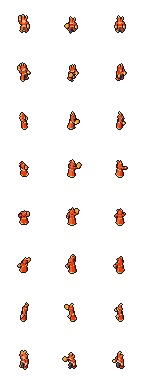
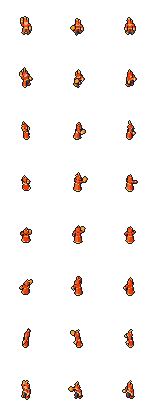
Gemini 5차 재검수 기록과 후속 수정 — 베스퍼 독빛 뚜껑, 이그니스 SE 삼지창 깨기
4차 «상» 반영(#87~#91) 뒤 같은 대화에서 재검수를 받았다.
아이아스·세라피나·실비아 통과, 베스퍼·이그니스 부분 통과(거의 통과).
남은 «중» 두 건을 고쳤다. 베스퍼 독빛 «파란 풍선»은 4차 반영 때 세 축을 1.4배로 키운 것이 원인이라
납작한 뚜껑으로 바꾸고 발사 때 옆으로만 1.15배 넓힌다.
이그니스 가운데 불꽃 끝은 1.23이다. 다른 높이는 걷기 lint H3에서 가는 끝이 2px 깜빡였다.
«하» 두 건(실비아 정수리 점 = 화살통 깃, 이그니스 N·NE 준비 화염구 가림)은 두었다.

Claude-Session: https://claude.ai/code/session_01XsJzvSywTfhUgL72Hqiuhg

diff --git a/tools/art/vesper.py b/tools/art/vesper.py
@@ -36,7 +36,7 @@ WALK = [dict(w, **CENSER, **L_ARM) for w in H.WALK]
 # 공격은 원거리(S121 사거리 3.5): 향로를 뒤로 낮게 젖혔다가(준비) 팔을 곧게 들어 머리 위로 휘돌리며 독빛을 키우고(발사, 가운데가 타격 프레임)
 # 앞으로 내린다(마무리). 과녁 쪽 앞 위로 던지면(sword 20) 남·남동·남서에서 향로가 모자에 겹쳐 안 보였다. 바깥으로 20° 눕혀 머리와 띄운다
 ATTACK = [dict(H.POSE, **L_ARM, sh_r=-40, el_r=20, ab_r=0.5, sword=215, lean=-5),
-          dict(H.POSE, **L_ARM, sh_r=165, el_r=5, ab_r=0.5, sword=0, sword_side=20, lean=8, glow=1.4),
+          dict(H.POSE, **L_ARM, sh_r=165, el_r=5, ab_r=0.5, sword=0, sword_side=20, lean=8, glow=1.15),
           dict(H.POSE, **L_ARM, sh_r=80, el_r=20, ab_r=0.45, sword=110, lean=4)]
 FALL = [dict(H.FALL[0], sword=175), dict(H.FALL[1], sword=175)] + [dict(f, censer=0) for f in H.FALL[2:]]
 ANIMS = {"idle": [IDLE], "walk": WALK, "attack": ATTACK, "fall": FALL}
@@ -86,8 +86,9 @@ def vesper(pose, bob_unit):
     P += [] if not pose.get("censer", 1) else [
           (R.capsule(hd, hd + bd * 0.18, 0.03), m("brass"), "censer"),  # 사슬
           (R.ellipsoid(c, (0.085, 0.085, 0.095)), m("brass"), "censer"),  # 향로. 컴퍼스를 빼고 반지름을 0.5px 키웠다(Gemini 4차 2026-10-19)
-          # 독빛: 향로 윗면. 가운데 띠로 두면 45°에서 놋쇠에 가려 1px도 안 나왔다
-          (R.ellipsoid(c + up * 0.035, (0.075 * glow, 0.075 * glow, 0.065 * glow)), m("glow"), "censer")]
+          # 독빛: 향로 윗면에 얹은 납작한 뚜껑. 가운데 띠로 두면 45°에서 놋쇠에 가려 1px도 안 나왔다. 공격 발사에서는 옆으로만 넓어져
+          # 놋쇠 몸통 위 고리가 된다. 세 축을 다 키우면 놋쇠를 덮는 청록 공(파란 풍선)이 됐다(Gemini 5차 2026-10-19)
+          (R.ellipsoid(c + up * 0.07, (0.075 * glow, 0.075 * glow, 0.035)), m("glow"), "censer")]
     return P
 
 

diff --git a/tools/art/ignis.py b/tools/art/ignis.py
@@ -24,7 +24,7 @@ BASE = {"skin": S.BASE["skin"],
 MATS = list(BASE)
 PARTS = ["leg", "torso", "head", "arm", "fireball", "frost"]
 SIZES = (24,)
-TAG = f"m5 ppu{H.PPU24} ignis2"  # 형체 크기를 바꾸면 이 꼬리표도 바꾼다(fit.json)
+TAG = f"m5 ppu{H.PPU24} ignis3"  # 형체 크기를 바꾸면 이 꼬리표도 바꾼다(fit.json)
 
 R_ARM = dict(sh_r=100, el_r=60, ab_r=1.3)  # 화염구를 머리 옆으로 든다. 머리 위로 들면(sh_r 150, ab_r 0.6) 노란 화염구가 불꽃 머리와 붙어 한 덩어리였다
 L_ARM = dict(sh_l=20, el_l=30, ab_l=0.5)  # 서리를 흘리는 내린 손
@@ -41,8 +41,10 @@ FALL = [dict(H.FALL[0], **L_ARM, ball=0)] + [dict(f, ball=0, frost=0) for f in H
 ANIMS = {"idle": [IDLE], "walk": WALK, "attack": ATTACK, "fall": FALL}
 # 불꽃 머리: (뿌리, 꺾임, 끝) 윗몸 좌표. 높이가 다른 세 갈래가 위로 솟다가 뒤로 휜다. 대칭 다섯 갈래는 정면·뒷면에서
 # 노란 왕관·성게처럼 보였다(Gemini 4차 2026-10-19). 노랑(flare)은 끝에만 둔다
-LOCKS = [((0.0, 0.02, 0.9), (0.03, -0.04, 1.04), (-0.01, -0.1, 1.17)),
-         ((-0.07, 0.02, 0.88), (-0.13, -0.03, 0.97), (-0.15, -0.11, 1.03)),
+# 가운데는 0.06(약 1px) 더 높이고 왼쪽 갈래는 가운데로 붙였다. 높이·간격이 고르면 SE에서 빨간 삼지창으로 보였다(Gemini 5차 2026-10-19).
+# 가운데 끝 높이는 1.23이다. 1.21·1.22·1.24·1.25는 걷기 1px 오르내림에서 가는 끝이 2px 깜빡여 lint H3(W 또는 SW)를 넘었다
+LOCKS = [((0.0, 0.02, 0.9), (0.03, -0.04, 1.07), (-0.01, -0.1, 1.23)),
+         ((-0.045, 0.02, 0.88), (-0.08, -0.03, 0.97), (-0.1, -0.11, 1.03)),
          ((0.06, -0.02, 0.89), (0.11, -0.07, 1.0), (0.09, -0.15, 1.08))]
 
 

diff --git a/art/trial/preview/gemini5/feedback_gemini.md b/art/trial/preview/gemini5/feedback_gemini.md
@@ -1,0 +1,66 @@
+# Gemini 5차(재검수) 답 (2026-10-19)
+
+- 대화: https://gemini.google.com/app/32d805d36140c324 (4차와 같은 대화, 4 Argon, Claude가 Chrome으로 보냄)
+- 보낸 것: 이 폴더의 PNG 11장(첫 메시지 10장 + 둘째 메시지 `5b`)과 [prompt.md](prompt.md)의 프롬프트. 입력란 내용은 원문과 SHA-256이 같았다.
+- 아래는 답 화면을 Markdown으로 옮긴 것이다. 화면 변환본(4,527자)과 SHA-256이 같았다. 그 뒤 답 안의 첨부 인용 표시(«PNG+ 4» 같은 글자)만 지웠다.
+- Claude 대조는 [영웅 스프라이트 기록](../../../../insights/2026-10-19_hero_sprites.md) «Gemini 5차 재검수»에 있다.
+
+---
+
+4차 피드백을 반영해 수정한 11장의 시트를 아트 디렉터 관점에서 재검수한 결과다. 모든 수치는 **확대 전 24px 원본 기준**이다.
+
+### 1. 영웅별 4차 «상» 지적 해결 여부
+
+#### ① 아이아스
+
+- **SE·E 정지·걷기 창 겹침**: **해결** — 창을 든 오른손을 바깥으로 1.5px 벌리고 수직(5°)에 가깝게 세워, SE에서 창이 갑옷을 가로지르지 않고 오른쪽 바깥 실루엣으로 깔끔하게 떨어졌다.
+- **S·N 공격 f2 타격감 및 잔상**: **해결** — 창끝이 앞으로 확실히 뻗어 나가고, 잔상(`d0d6e0`)이 자루에서 1px 떨어져 길게 그어지면서 1~2배 크기에서도 찌르는 궤적이 시원하게 읽힌다.
+
+#### ② 세라피나
+
+- **N·NE·NW 뒷모습 상아색 통짜 현상**: **해결** — 어깨선 금 단(`efac28`)과 등 가운데 주황 영대(`ef692f`)가 들어가면서 머리와 등이 분리되어 두부/유령 같던 뒷모습이 성녀 복장으로 완벽히 읽힌다.
+- **N·NE·NW 걷기 발 노출**: **해결** — 치맛단을 0.5px 올려 걸을 때 금빛 신발이 번갈아 노출되니 둥둥 떠다니는 느낌이 사라지고 보행 리듬이 살아났다.
+- **공격 f1 지팡이 가려짐 (4차 중→우선순위 4번 반영)**: **해결** — 지팡이를 몸 앞에 10° 이내로 세워 모아 쥐면서 N·NE·NW·E 모든 방향에서 해 원반이 가려지지 않고 준비→타격(f1→f2) 수직 상승 동작이 명확해졌다.
+
+#### ③ 베스퍼
+
+- **갈색 진흙 덩어리 탈출 (모자 확장·명도 분리)**: **해결** — 모자·장화를 어두운 색(`151a26`~`392a1c`)으로 누르고 챙을 양옆 1px씩 넓히자, 1배 실제 크기에서도 '챙 넓은 모자를 쓴 역병 의사'의 역삼각형 실루엣이 단번에 읽힌다.
+- **S·SW·SE 새부리-조끼 일자 합체**: **해결** — 부리를 오른쪽으로 25° 틀고 조끼 명도를 `927e6a`로 낮춘 뒤 어두운 목 가리개를 넣자, 가장 밝은 `efd8a1`이 오직 새부리에만 남아 정면에서도 부리가 선명하게 튀어나와 보인다.
+- **독빛 발광 및 소품 정리**: **부분 해결** — 왼손 컴퍼스를 빼고 향로 반지름을 키워 오른쪽 실루엣이 깔끔해졌고 청록(`3c9f9c`) 포인트도 들판 위에서 잘 보이나, **공격 f2에서 향로 독빛이 파란 풍선처럼 뭉치는 부작용**이 새로 생겼다(아래 2번 표 참고).
+
+#### ④ 이그니스
+
+- **불꽃 머리 왕관/성게 현상**: **부분 해결** — S·E·W·NW에서는 비대칭 3갈래 불꽃과 주홍~노랑 그라데이션이 자연스럽게 타오르나, **SE 방향에서 세 갈래가 똑같은 간격·높이로 서 있어 빨간 삼지창(포크)처럼 보이는 현상**이 남아 있다.
+- **S·SE·SW 공격 f2 화염구-로브 겹침**: **해결** — 팔을 45° 바깥으로 벌려 화염구를 몸통 실루엣 밖으로 완전히 빼내자, 주홍 로브와 겹치지 않고 타격 순간의 화염구가 확실히 보인다.
+
+#### ⑤ 실비아
+
+- **정지·걷기 활 방패화 현상**: **해결** — 시위를 과감히 빼고 0° «)» 모양 갈색 활대만 남긴 판단이 정확했다. 0_lineup 1·2·3배 모두에서 방패나 회색 쐐기 느낌이 완전히 사라지고 한눈에 '활을 든 궁수'로 읽힌다.
+- **공격 f1 몸통 위 시위 노이즈**: **해결** — 시위와 화살대를 생략하고 줌통 앞 은색 화살촉(`d0d6e0`)만 남기니 몸통 위 X자 노이즈가 사라지고 장전 자세가 깔끔하게 정돈됐다.
+- **S·SW 공격 f2·f3 활 수직 통나무화**: **해결** — 활 윗부분을 바깥으로 20° 기울이고 어두운 시위(`56607a`)를 쓰자, S·SW에서도 통나무 기둥 느낌이 사라지고 입체적인 활의 곡선이 살아났다.
+
+### 2. 고치면서 새로 생긴 문제 (또는 미세 마감 필요 사항)
+
+| 심각도 | 영웅 | 방향·프레임 | 문제 | 고칠 방법 |
+| --- | --- | --- | --- | --- |
+| **중** | **베스퍼** | **전체** 공격 f2 | 향로를 머리 위로 휘돌릴 때 확대한 청록 독빛(`3c9f9c`)이 지름 3~4px의 매끈한 원형(구 SDF)으로 렌더되어, 독 연기나 향로가 아니라 **파란 풍선**이나 **파란 사탕(롤리팝)**을 들고 흔드는 것처럼 보인다. | 공격 f2에서 독빛을 둥근 구 하나로 크게 키우지 마라. 향로 아랫부분의 **금속 몸통(`efac28`·`ab5c1c` 2~3px)**이 밑바닥에 반드시 보이게 유지하고, `3c9f9c`는 향로 윗면에서 솟아오르는 **가로로 납작한 초승달/고리 모양(2~3px)**이나 흩어지는 2개 점으로만 제한해라. |
+| **중** | **이그니스** | **SE** 정지·걷기·공격 f2 | 3갈래로 줄인 불꽃 머리가 유독 **SE 방향에서만 세 기둥의 높이와 간격(1px 틈)이 좌우 대칭**으로 똑같아 보여서, 불꽃이 아니라 **빨간 삼지창(포크)이나 세 갈래 왕관**처럼 보인다. | 가운데 갈래의 높이를 지금보다 **+1px** 더 높이고, 카메라에서 먼 왼쪽(동쪽) 갈래를 가운데 갈래 쪽으로 **0.5~1px** 붙여 틈을 메움으로써 '큰 덩어리 하나 + 작은 곁가지 하나'의 비대칭 실루엣으로 깨뜨려라. |
+| **하** | **실비아** | **S** 공격 f1·f2 | S 방향 공격 f1·f2에서 이마/정수리 한가운데에 가장 밝은 `d0d6e0`(또는 `efd8a1`) **1px짜리 흰 점**이 찍혀 있어, 투구 하이라이트나 대머리 반사광처럼 튄다. (정지·걷기나 다른 방향에는 없다.) | 런지 자세로 고개를 숙일 때 머리 장식이나 피부 SDF가 머리카락(`262d3d`) 밖으로 1px 삐져나온 아티팩트다. S 공격 f1·f2의 머리 위 밝은 1px이 `262d3d` 또는 `3a4357`로 덮이도록 두상/머리카락 SDF 위치를 **0.5px** 조정해라. |
+| **하** | **이그니스** | **N·NE** 공격 f1 | 준비 동작(f1)에서 오른팔을 머리 뒤(남쪽)로 젖히다 보니, 등 뒤에서 보는 N·NE 방향에서는 화염구가 머리에 가려져 **맨손으로 서 있는 것처럼** 보인다. | N·NE에서도 화염구 준비 동작이 읽히도록 공격 f1에서 화염구를 든 손 위치를 오른쪽 바깥으로 **1.5px** 더 빼내어 머리 오른쪽 옆으로 화염구(`efac28`·`ef692f`)가 반쯤 삐져나오게 해라. |
+
+### 3. 영웅 간 구분 다시 보기
+
+1. **실비아(궁수) ↔ 아이아스(탱커) · 크로노스(버퍼)**: **완벽히 해결**
+  - 0_lineup의 1·2·3배 실제 크기에서 실비아의 시위를 제거하자, 아이아스·크로노스의 묵직한 사각/원형 방패와 실비아의 얇은 갈색 활(«)» 곡선)이 즉각 구분된다. 더 이상 탱커나 버퍼와 겹치지 않는다.
+2. **세라피나(힐러) ↔ 이그니스(마법사)**: **완벽히 해결**
+  - 이그니스에게 어두운 차콜 목깃(`262d3d`)과 주홍색(`ef3a0c`) 머리 뿌리, 굵은 금 허리띠를 넣어 채도가 높고 강렬한 '불꽃 마법사' 인상이 굳어졌다. 반면 세라피나는 상아색(`efd8a1`) 면적이 넓고 뒷모습에도 금 단과 주황 영대 구조가 잡히면서 차분하고 밝은 '성녀' 실루엣으로 완전히 갈라졌다.
+3. **6인 전체 라인업 밸런스**:
+  - 크로노스(청회색+금) / 아이아스(은백색+진홍+큰 창) / 세라피나(상아색+주황+지팡이) / 베스퍼(흑갈색 챙모자+흰 부리+청록 향로) / 이그니스(주홍+노란 불꽃 머리) / 실비아(비취 청록+갈색 활) 여섯 영웅 모두 **1배(24px) 크기에서 주색·머리 실루엣·무기 형태로 1초 만에 구분**된다.
+
+### 4. 영웅별 최종 판정
+
+- **아이아스**: **통과** — 정지·걷기·공격·쓰러짐 8방향 모두 탱커로서의 묵직함과 창의 찌르기 가독성이 완성되었다(바로 게임에 넣어도 좋다).
+- **세라피나**: **통과** — 앞뒷면 복장 디테일과 보행 시 신발 노출, 공격 3프레임의 지팡이 시인성까지 힐러로서 흠잡을 데 없이 완성되었다.
+- **실비아**: **통과** — 정지·걷기 활의 시위 생략과 공격 프레임 각도 조정으로 궁수 정체성이 확실히 살아났다(S 공격 f1·f2 정수리의 1px 흰 점만 잡아주면 완벽하다).
+- **베스퍼**: **부분 통과 (거의 통과)** — 정지·걷기·쓰러짐은 역병 의사 실루엣으로 완벽히 부활했으나, 공격 f2에서 머리 위 청록 독빛이 파란 풍선처럼 뭉치는 현상 하나만 금빛 향로 몸통을 노출시켜 다듬어주면 바로 통과다.
+- **이그니스**: **부분 통과 (거의 통과)** — 색감과 공격 f2 화염구 분리는 훌륭하게 해결되었으니, SE 방향의 삼지창 같은 대칭 머리와 N·NE 공격 f1에서 화염구가 가려지는 점 두 가지만 가볍게 잡아주면 바로 통과다.

diff --git a/art/trial/preview/gemini5/prompt.md b/art/trial/preview/gemini5/prompt.md
@@ -1,0 +1,44 @@
+# Gemini 5차(재검수) 프롬프트 (2026-10-19)
+
+4차 검수의 «상» 지적을 고친 뒤(사용자 2026-10-19 «상» 지적 전부, PR #87~#91) 같은 대화(https://gemini.google.com/app/32d805d36140c324)에서 재검수를 받는다.
+첨부는 이 폴더의 PNG 11장으로, 4차와 구성·파일 이름이 같다. 그림은 4차와 같은 스크래치 스크립트로 만들었다(저장소에 넣지 않았다).
+한 메시지에 첨부가 10장까지라 첫 메시지에 `5b`를 뺀 10장과 아래 코드 블록을 보내고, 둘째 메시지에 `5b`와 «마지막 첨부다. 이제 첫 메시지의 지시대로 재검수해 줘.»를 보낸다.
+
+````text
+# 보내는 방법
+첨부가 11장인데 한 메시지에 10장까지라, 5b_sylvia_walk_attack.png는 다음 메시지로 보낸다.
+이번 메시지에는 «받음»이라고만 답하고, 다음 메시지를 받은 뒤 아래 지시대로 재검수해 줘.
+
+# 재검수
+네 4차 검수에서 «상» 지적과 «먼저 고칠 5가지»를 고쳤다. 첨부 11장은 4차와 구성·파일 이름이 같고, 고친 뒤의 시트다.
+배경·규칙·팔레트는 4차 첫 메시지와 같다. px 수치는 24px 원본 기준으로 말해 줘.
+
+# 고친 것(영웅별)
+1. 실비아
+   - 정지·걷기: 시위를 그리지 않는다. 활은 곧게 세운 «)» 모양만 남는다. 네가 낸 안(활을 30° 눕히고 시위를 56607a로)은 활대와 시위 사이가 메워져 회색 쐐기가 됐다. 0·15·25°와 시위 유무 여섯 안 가운데 «0°·시위 없음»이 가장 활로 읽혔다.
+   - 공격 f1: 시위·화살대 없이 줌통 앞 은 화살촉만 둔다.
+   - 공격 세 프레임: 활 위 끝을 바깥으로 20° 기울이고 시위는 56607a. 몸 쪽 40°는 S에서 활이 몸통을 가로질렀고, 바깥 30° 이상은 W에서 활이 카메라 쪽으로 누워 사라졌다.
+2. 베스퍼
+   - 모자·장화·장갑을 151a26~392a1c로 낮췄다. 챙은 양옆 1px씩 넓혔고, 꼭대기는 약 1px 높였다.
+   - 새부리를 오른쪽으로 25° 틀고, 목 앞에 어두운 가리개를 뒀다. 조끼는 뼈색 그늘(927e6a) 단계로 낮춰, 밝은 뼈색(efd8a1)은 새부리만 쓴다. 45°에서는 새부리 끝이 화면상 조끼 높이까지 내려와 위치만으로는 떼지 못했다.
+   - 독빛: 향로 윗면을 청록 3c9f9c로 칠했다. 노랑(efac28)은 놋쇠와 섞였고 독녹(39571c)은 들판에 묻혔다. 렌즈는 45°에서 넓힌 챙에 가려 어떤 색이어도 보이지 않는다.
+   - 컴퍼스를 빼고 왼손을 내렸다. 향로는 반지름 약 0.5px 키웠다.
+3. 이그니스
+   - 불꽃 머리: 높이가 다른 세 갈래가 위로 솟다가 뒤로 휜다. 뿌리·머리 덮개는 주홍(ef3a0c 계열), 가운데는 주황, 노랑은 끝에만 둔다.
+   - 공격 f2: 팔을 바깥으로 45° 벌려 화염구를 몸 실루엣 밖에 둔다.
+   - 앞 목깃(숯빛)을 더하고, 금 허리띠를 로브 자락보다 크게 해 보이게 했다.
+4. 세라피나
+   - 등: 베일을 어깨선까지만 내리고 끝에 금 단을 둘렀다. 그 아래 등 가운데로 주황 영대가 치맛단까지 내려온다.
+   - 치맛단을 약 0.5px 올려 걸을 때 금 신발이 단 아래로 보이게 했다.
+   - 공격 f1: 지팡이를 몸 앞에 수직 10° 안으로 모아 쥔다.
+5. 아이아스
+   - 정지·걷기: 창을 앞으로 15° → 5°, 바깥 기울기 0으로 세우고, 창 든 손을 바깥으로 약 1.5px 벌렸다. 바깥으로 10° 기울이면 E에서 창이 카메라 쪽으로 누워 창끝이 투구 높이에 붙었다. 캔버스는 34 → 32px이 됐다.
+   - 공격 f2: 창을 손 안에서 앞으로 밀어내 창끝이 더 나간다. 잔상 두 줄은 자루에서 1px 바탕을 띄우고 길이를 늘렸다.
+- «중»·«하» 지적 가운데 위에 없는 것은 이번에 손대지 않았다. 다시 적지 않아도 된다.
+
+# 요청
+1. 영웅마다 4차 «상» 지적별로 해결 / 부분 / 미해결과 한 줄 근거
+2. 고치면서 새로 생긴 문제: | 심각도(상/중/하) | 영웅 | 방향·프레임 | 문제 | 고칠 방법 |
+3. 영웅 간 구분 다시 보기(4차의 실비아↔아이아스·크로노스, 세라피나↔이그니스 겹침 포함)
+4. 영웅마다 판정 다시: 24px 게임용으로 통과 / 부분 / 불합격, 한 줄 이유
+````

diff --git a/insights/2026-10-19_hero_sprites.md b/insights/2026-10-19_hero_sprites.md
@@ -202,7 +202,8 @@
 - [x] 이그니스
 - [x] 실비아
 - [x] 다섯 명 일괄 Gemini 검수(아래 «Gemini 4차 검수»)
-- [ ] Gemini 지적 반영: 무엇을 고칠지 사용자가 고른다
+- [x] Gemini 지적 반영: 사용자가 «상» 지적 전부를 골랐다(2026-10-19). PR #87~#91, 재검수 뒤 후속 수정
+- [ ] 5차 재검수의 «하» 두 건(아래)을 고칠지: 사용자가 정한다
 
 ## Gemini 4차 검수(2026-10-19)
 
@@ -223,3 +224,19 @@
 Gemini가 꼽은 먼저 고칠 순서: ① 실비아 활(시위 빼기·대각선으로 기울이기) ② 베스퍼 모자 챙 넓히고 어둡게·새부리와 조끼 끊기·독빛 ③ 이그니스 비대칭 3갈래 불꽃·화염구 떼기 ④ 세라피나 베일 끝 금 단으로 머리·등 가르기·공격 f1 지팡이 세우기 ⑤ 아이아스 창 세우기·S·N 찌르기 과장.
 
 영웅 간 겹침: 실비아 ↔ 아이아스·크로노스(세로 방패 실루엣), 세라피나 ↔ 이그니스(긴 로브 + 따뜻한 색).
+
+## Gemini 5차 재검수(2026-10-19)
+
+- 4차 «상» 지적을 고친 뒤 같은 대화에서 재검수를 받았다. 그림 11장은 4차와 구성이 같다(`art/trial/preview/gemini5/`).
+- 프롬프트: [prompt.md](../art/trial/preview/gemini5/prompt.md). 답 원문: [feedback_gemini.md](../art/trial/preview/gemini5/feedback_gemini.md)
+
+| 영웅 | 4차 | 5차 | 남은 지적 → 처리 |
+|---|---|---|---|
+| 아이아스 | 부분 통과 | **통과** | — |
+| 세라피나 | 부분 통과 | **통과** | — |
+| 실비아 | 불합격 | **통과** | «하» S 공격 f1·f2 정수리 1px 흰 점 → 고치지 않았다. Claude 대조: 렌더 잡음이 아니다. 등에 멘 화살통의 은색 깃이 런지 자세에서 정수리 위로 보이는 것이다(부위 이미지에서 그 1px이 몸통 부위의 `d0d6e0`이고, 몸통 부위 중 은색은 깃뿐이다) |
+| 베스퍼 | 불합격 | 부분 통과(거의 통과) | «중» 공격 f2 청록 독빛이 «파란 풍선» → 고쳤다. 독빛을 납작한 뚜껑(높이 0.035)으로 바꿨다. 발사에서는 옆으로만 1.15배 넓혀 놋쇠 몸통이 아래로 보인다. Claude가 4차 반영 때 세 축을 1.4배로 키운 것이 원인이었다 |
+| 이그니스 | 부분 통과 | 부분 통과(거의 통과) | «중» SE에서 세 갈래가 같은 높이·간격이라 삼지창 → 고쳤다. 가운데 끝을 1.17 → 1.23으로 높이고 왼쪽 갈래를 가운데로 붙였다. 끝 높이 1.21·1.22·1.24·1.25는 걷기 H3를 넘어(W 또는 SW에서 2px) 1.23으로 했다. 꼬리표 `ignis3`, 캔버스 24 → 26px. «하» N·NE 공격 f1 화염구가 머리에 가린다 → 고치지 않았다 |
+
+- 영웅 간 구분: 4차의 두 겹침(실비아 ↔ 아이아스·크로노스, 세라피나 ↔ 이그니스)은 «완벽히 해결»로 판정됐다. Gemini는 여섯 명이 1배에서 주색·머리 실루엣·무기로 구분된다고 봤다.
+- 베스퍼·이그니스의 «중» 후속 수정은 6차 검수를 받지 않았다. lint와 final로만 확인했다.
